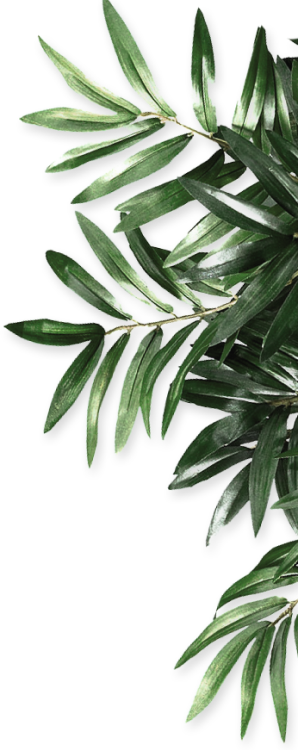
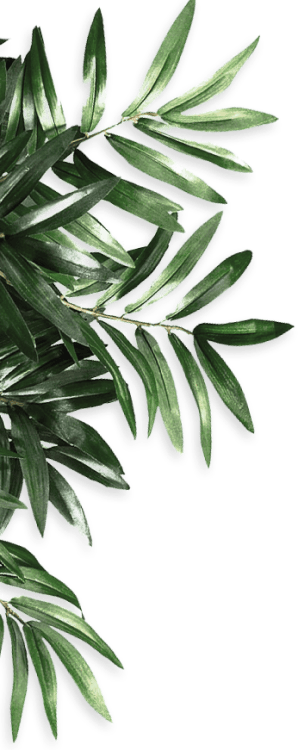
style: mirror the bush and mainFlower and change the color of the text in the cards

diff --git a/apps/tasky/pages/index.vue b/apps/tasky/pages/index.vue
@@ -1,7 +1,7 @@
 <template>
   <div class="flex w-full flex-col justify-between bg-index-150/20">
-    <img src="../public/Unlogged/mainPictures/mainFlower.png" class="absolute z-0">
-    <div class="flex justify-between pb-64 pt-24 z-10 bg-index-50/60 rounded-3xl max-xl:flex-col max-xl:pt-0 max-md:pb-48">
+    <img src="../public/Unlogged/mainPictures/mainFlower.png" class="absolute right-0 z-0">
+    <div class="flex justify-between pb-64 pt-24 z-10 rounded-3xl max-xl:flex-col max-xl:pt-0 max-md:pb-48">
       <div class="z-10 pl-48 flex flex-col gap-12 max-xl:items-center max-xl:px-0 max-xl:text-center">
         <h1 class="text-6xl pt-24 text-index-300 max-md:text-5xl">Tasky</h1>
         <h2 class="w-96 text-4xl text-index-300 max-md:text-2xl max-md:w-80"> Organize and complete daily tasks while contributing to a greener
@@ -13,25 +13,25 @@
         <UtilsCarousel />
       </div>
     </div>
-    <div class="flex justify-between pb-32 pt-44 max-xl:flex-col max-xl:pt-20 max-md:pt-0">
+    <div class="flex justify-between pb-28 max-xl:flex-col max-xl:pt-20 max-md:pt-0">
       <div class="z-10 flex flex-col pl-32 gap-20 max-xl:pl-0 max-xl:items-center">
         <h1 class="text-6xl  text-index-250 pb-4 max-md:text-5xl">Why Tasky?</h1>
         <div class="bg-index-200 w-96 rounded-xl flex items-center max-md:w-80">
           <img src="../public/Unlogged/mainPictures/note.png" class="p-6 max-xl:p-4">
-          <h2 class="text-xl text-center pr-4">Tasky helps you organize your day to day life.</h2>
+          <h2 class="text-xl text-center pr-4 text-index-100">Tasky helps you organize your day to day life.</h2>
         </div>
         <div class="bg-index-200 w-96 rounded-xl flex items-center max-md:w-80">
           <img src="../public/Unlogged/mainPictures/plant.png" class="p-6 max-xl:p-4 ">
-          <h2 class="text-xl text-center pr-4">You save the planet by using our app.</h2>
+          <h2 class="text-xl text-center pr-4 text-index-100">You save the planet by using our app.</h2>
         </div>
         <div class="bg-index-200 w-96 rounded-xl flex items-center max-md:w-80">
           <img src="../public/Unlogged/mainPictures/www.png" class="p-6 max-xl:p-4">
-          <h2 class="text-xl text-center pr-4">Cross-platform accessability.</h2>
+          <h2 class="text-xl text-center pr-4 text-index-100">Cross-platform accessability.</h2>
         </div>
       </div>
       <div class="flex flex-col">
         <img src="../public/Unlogged/mainPictures/laptop.webp" class="pr-32 pt-32 max-xl:px-24 max-md:px-5">
-        <img src="../public/Unlogged/mainPictures/bush.png" class="absolute right-0 h-3/4 max-xl:h-3/6 max-md:pt-14">
+        <img src="../public/Unlogged/mainPictures/bush.png" class="absolute left-0 h-3/4 max-xl:h-3/6 max-md:pt-14">
       </div>
     </div>
   </div>
